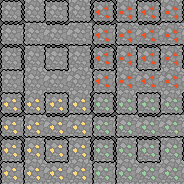
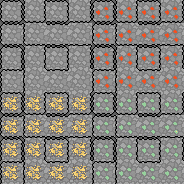
added grass to the game along with re-worked some of the map generator code

diff --git a/src/equals7/Map.java b/src/equals7/Map.java
@@ -5,18 +5,30 @@ import java.awt.image.BufferedImage;
 import java.util.Random;
 
 public class Map {
-	private static int MATERIALS = 4;
+	private static int WALL_ARRAY_NUMBER = 4;
 	private static int TILE_SIZE = 23;
-	public static int CLEAR = MATERIALS;
-
+	// The clear number is to indicate a material that is not going to have to make rounded corners and such
+	private static int CLEAR = WALL_ARRAY_NUMBER;
+	// You set the single images to numbers like 5 and 6 indicating grass and stoneFloor
+	public static int STONE = 0;
+	public static int RED = 1;
+	public static int GOLD = 2;
+	public static int GREEN = 3;
+	// EveryThing bellow this is considered walk able
+	public static int GRASS = 4;
+	public static int STONE_FLOOR = 5;
+	// This is the total amount of elements this is used to create random maps
+	public static int TOTAL_ELEMENTS = 5;
+	// This indicates how many tiles there should be in each chunk
 	private static int WIDTH = 43;
 	private static int HEIGHT = 43;
-
+	// This is the array used to store the type of material that is being used
 	private int[][] data = new int[HEIGHT][WIDTH];
+	// This handles the tile if it needs to be a wall.
 	private int[][] orentation = new int[HEIGHT][WIDTH];
 
 	BufferedImage[][] image;
-	BufferedImage clearImage;
+	BufferedImage stoneFloor, grass;
 
 	public Map(Game game) {
 		// for loop here
@@ -39,7 +51,8 @@ public class Map {
 
 		int numberOf = generator.nextInt(50);
 		numberOf += 10;
-		for (int m = 1; m <= MATERIALS; m++) {
+		
+		for (int m = 0; m <= TOTAL_ELEMENTS; m++) {
 
 			for (int n = 0; n < numberOf; n++) {
 
@@ -48,10 +61,12 @@ public class Map {
 				int yRandLoc = generator.nextInt(HEIGHT);
 				int xRandLoc = generator.nextInt(WIDTH);
 				int nextLocation;
+				
 				for (int a = 0; a <= amount; a++) {
 					if (yRandLoc < HEIGHT && xRandLoc < WIDTH)
 						if (lookAround(yRandLoc, xRandLoc)) {
 							data[yRandLoc][xRandLoc] = m;
+							// The number of direction that the random element move can move is 4 it can't move more then 5
 							nextLocation = generator.nextInt(4);
 							if (nextLocation == 0 && lookUp(yRandLoc, xRandLoc)) {
 								yRandLoc -= 1;
@@ -75,7 +90,13 @@ public class Map {
 
 		Sprite sprite = new Sprite();
 		image = sprite.loadStripImageArray("images/imageMap.jpg", 4, 4, 2, 2);
-		clearImage = sprite.loadImage("images/darkFloorStone.jpg");
+		loadImages(sprite);
+		
+	}
+	
+	public void loadImages(Sprite sprite){
+		grass = sprite.loadImage("images/grass.jpg");
+		stoneFloor = sprite.loadImage("images/darkFloorStone.jpg");
 	}
 
 	public boolean lookAround(int y, int x) {
@@ -141,7 +162,7 @@ public class Map {
 
 	// This is to check to see if there is a tile that is not blank
 	public boolean isClear(int y, int x) {
-		if (data[y][x] != CLEAR) {
+		if (data[y][x] < CLEAR) {
 			return true;
 		} else {
 			return false;
@@ -220,14 +241,16 @@ public class Map {
 	// Highlight
 	public void highlight(Graphics g, int xStart, int yStart, int x, int y) {
 		int tileSizeWidth, tileSizeHeight;
-		
+
 		x = x - Game.ORIGINx;
 		y = y - Game.ORIGINy;
 		xStart = ((xStart - Game.ORIGINx) / TILE_SIZE) * TILE_SIZE;
 		yStart = ((yStart - Game.ORIGINy) / TILE_SIZE) * TILE_SIZE;
 
-		tileSizeWidth = (((x / TILE_SIZE) - (xStart / TILE_SIZE)) * TILE_SIZE) + TILE_SIZE;
-		tileSizeHeight = (((y / TILE_SIZE) - (yStart / TILE_SIZE)) * TILE_SIZE) + TILE_SIZE;
+		tileSizeWidth = (((x / TILE_SIZE) - (xStart / TILE_SIZE)) * TILE_SIZE)
+				+ TILE_SIZE;
+		tileSizeHeight = (((y / TILE_SIZE) - (yStart / TILE_SIZE)) * TILE_SIZE)
+				+ TILE_SIZE;
 
 		g.setColor(g.getColor().darker());
 		g.drawRect(xStart, yStart, tileSizeWidth, tileSizeHeight);
@@ -236,8 +259,10 @@ public class Map {
 	public void paint(Graphics g) {
 		for (int y = 0; y < HEIGHT; y++) {
 			for (int x = 0; x < WIDTH; x++) {
-				if (data[y][x] == CLEAR) {
-					g.drawImage(clearImage, x * TILE_SIZE, y * TILE_SIZE, null);
+				if (data[y][x] == STONE_FLOOR) {
+					g.drawImage(stoneFloor, x * TILE_SIZE, y * TILE_SIZE, null);
+				} else if (data[y][x] == GRASS){
+					g.drawImage(grass, x * TILE_SIZE, y * TILE_SIZE, null);
 				} else {
 					g.drawImage(image[data[y][x]][orentation[y][x]], x
 							* TILE_SIZE, y * TILE_SIZE, null);

diff --git a/src/equals7/Game.java b/src/equals7/Game.java
@@ -16,7 +16,6 @@ import java.awt.event.WindowEvent;
 // By using the buffer we can increase the frame rate.
 import java.awt.image.BufferStrategy;
 
-
 // Use the canvas class to make this hole thing build the UI
 public class Game extends Canvas {
 
@@ -24,7 +23,6 @@ public class Game extends Canvas {
 	public static final int ORIGINx = 4;
 	public static final int ORIGINy = 15;
 	private int element = 0;
-	private boolean weBeDragging = false;
 	private int mouseDragX, mouseDragY, xPressed, yPressed;
 	private Map map;
 	int height = 900;
@@ -70,7 +68,7 @@ public class Game extends Canvas {
 		addMouseListener(new mouseInputHandler());
 		addKeyListener(new keyInputHandler());
 		addMouseMotionListener(new mouseDragHandler());
-		
+
 		// Make sure you create the buffer strategy
 		createBufferStrategy(2);
 		strategy = getBufferStrategy();
@@ -91,19 +89,22 @@ public class Game extends Canvas {
 	private class keyInputHandler extends KeyAdapter {
 		public void keyPressed(KeyEvent e) {
 			if (e.getKeyCode() == KeyEvent.VK_1) {
-				element = 1;
+				element = Map.STONE;
 			}
 			if (e.getKeyCode() == KeyEvent.VK_2) {
-				element = 2;
+				element = Map.RED;
 			}
 			if (e.getKeyCode() == KeyEvent.VK_3) {
-				element = 3;
+				element = Map.GREEN;
 			}
 			if (e.getKeyCode() == KeyEvent.VK_4) {
-				element = 0;
+				element = Map.GOLD;
 			}
 			if (e.getKeyCode() == KeyEvent.VK_5) {
-				element = Map.CLEAR;
+				element = Map.STONE_FLOOR;
+			}
+			if (e.getKeyCode() == KeyEvent.VK_6){
+				element = Map.GRASS;
 			}
 		}
 
@@ -113,6 +114,7 @@ public class Game extends Canvas {
 	// object
 	private class mouseInputHandler extends MouseAdapter {
 		int xReleased, yReleased;
+
 		public void mousePressed(MouseEvent e) {
 			if (e.getButton() == 1) {
 				xPressed = e.getX();
@@ -120,20 +122,17 @@ public class Game extends Canvas {
 			}
 		}
 
-
-
 		public void mouseReleased(MouseEvent e) {
 			if (e.getButton() == 1) {
 				xReleased = e.getX();
 				yReleased = e.getY();
 				mousePressed = false;
 			}
-			map.changeTiles(xPressed, yPressed, xReleased, yReleased,
-						element);
+			map.changeTiles(xPressed, yPressed, xReleased, yReleased, element);
 		}
-		
 
 	}
+
 	private class mouseDragHandler extends MouseAdapter {
 		public void mouseDragged(MouseEvent e) {
 			mousePressed = true;
@@ -142,14 +141,13 @@ public class Game extends Canvas {
 		}
 	}
 
-
 	// May be trying to do to much in this method may want to spread it out a
 	// bit.
 	public void gameLoop() {
 		boolean gameRunning = true;
 		int getSizeHeight;
 		int getSizeWidth;
-		
+
 		while (gameRunning) {
 			getSizeHeight = frame.getSize().height;
 			getSizeWidth = frame.getSize().width;
@@ -162,12 +160,10 @@ public class Game extends Canvas {
 
 			g.translate(ORIGINx, ORIGINy);
 			map.paint(g);
-			
-			if (mousePressed){
+
+			if (mousePressed) {
 				map.highlight(g, xPressed, yPressed, mouseDragX, mouseDragY);
 			}
-			
-			
 
 			g.dispose();
 

diff --git a/src/equals7/Sprite.java b/src/equals7/Sprite.java
@@ -57,7 +57,7 @@ public class Sprite {
 		int imWidth = stripIm.getWidth();
 		int imHeight = stripIm.getHeight();
 
-		int chunks = (chunksW + chunksH);
+		int chunks = (chunksW * chunksH);
 
 		int tileWidth = imWidth / (numberW * chunksW);
 		int tileHeight = imHeight / (numberH * chunksH);
@@ -81,11 +81,11 @@ public class Sprite {
 		for (int ch = 0; ch < chunksH; ch++)
 			for (int cw = 0; cw < chunksW; cw++) {
 				chunkLocH = chunkH * ch;
-				chunkLocW = chunkW * cw;	
+				chunkLocW = chunkW * cw;
 				count = 0;
 				for (int h = 0; h < numberH; h++) {
 					for (int w = 0; w < numberW; w++) {
-						
+
 						strip[chunk][count] = gc.createCompatibleImage(
 								tileWidth, tileHeight, transparency);
 						// create a graphics context

diff --git a/src/equals7/UserInterface.java b/src/equals7/UserInterface.java
@@ -1,5 +1,5 @@
 package equals7;
 
 public class UserInterface {
-	
+
 }
